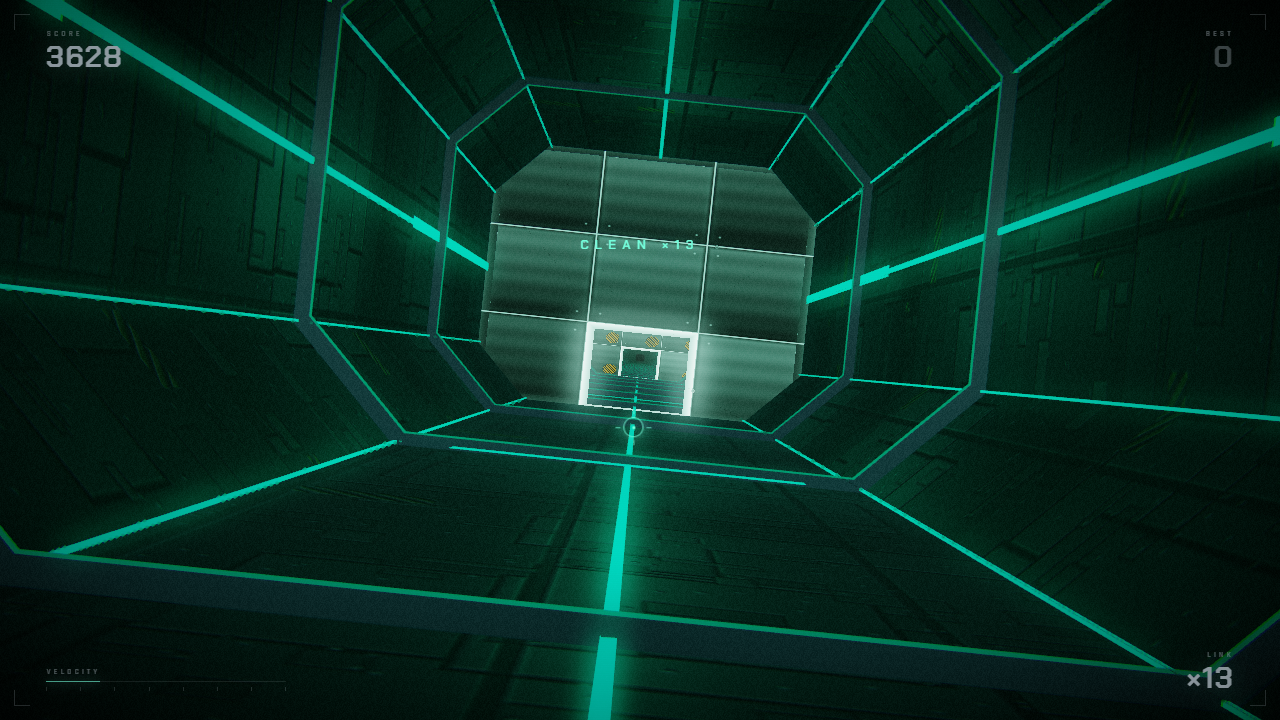
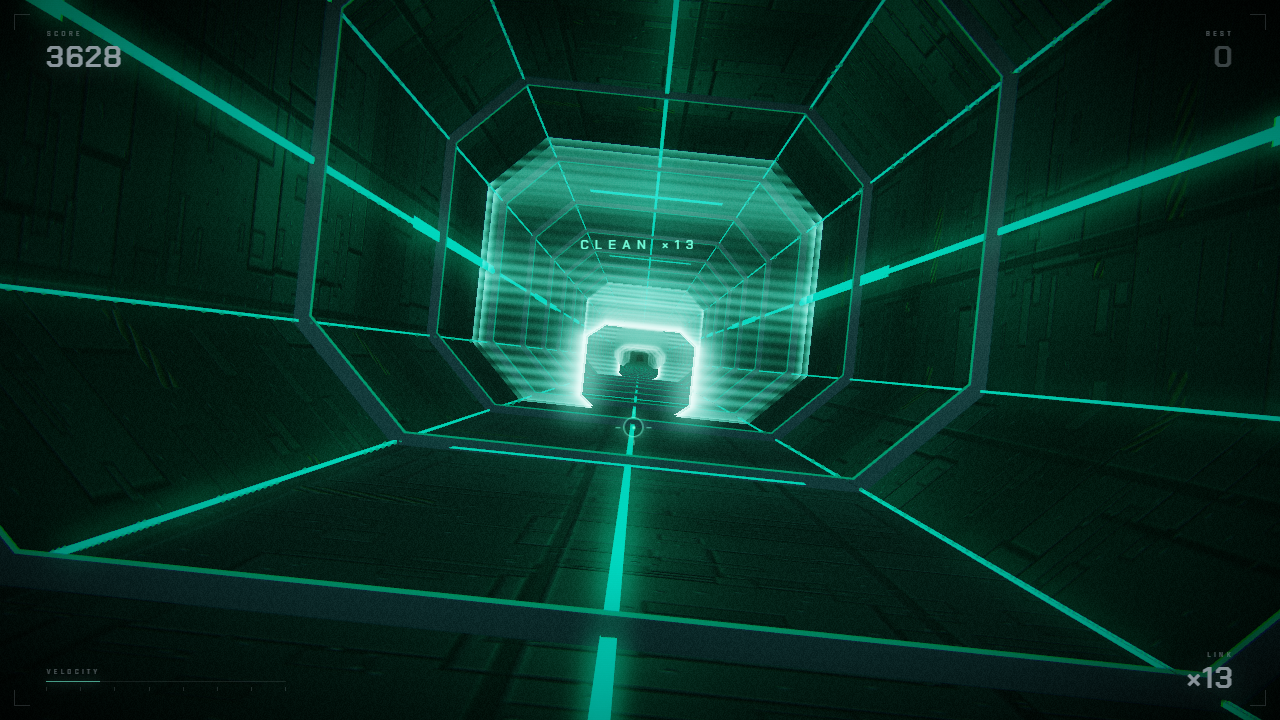
feat(wall): bulkheads become lit glass instead of solid plates
Reference decomposition from HelloRun: translucency, moving scanlines, a thick
cut edge, and several slabs stacking into depth. The opaque 3x3 plate grid had
none of those and blocked the view of what was coming.

- glass is one continuous pane with a chamfered-square aperture; nothing in the
  render reads as a grid any more (judgement still uses the 3x3 index)
- additive blending and no depth write, so you can see the corridor through it
- two planes 0.38 apart share one material, so the apertures parallax against
  each other as you steer: that is where the thickness comes from
- cut edge goes white hot, the pane keeps animated scanlines, the outer frame
  and the aperture rim both read
- widened the aperture to 0.48 of a cell

Changed region(s): [[0.3438, 0.1833, 0.6562, 0.6111]]

diff --git a/js/gates.js b/js/gates.js
@@ -2,19 +2,23 @@ import * as THREE from 'three';
 import { TUNNEL } from './tunnel.js';
 
 /* ------------------------------------------------------------------ *
- *  A wall is a 3x3 assembly of bolted plates spanning the corridor.
- *  The centre plate never opens; exactly one of the eight ring cells is
- *  missing, and that gap is the only way through.
+ *  A bulkhead is a slab of lit glass across the corridor with exactly
+ *  one aperture punched through it.
  *
- *  cell index = row * 3 + col        row 0 = bottom, col 0 = left
- *        6 7 8
- *        3 4 5     4 = centre (always solid)
- *        0 1 2
+ *  Judgement is still a 3x3 grid (row * 3 + col, centre never opens),
+ *  but nothing in the render says "grid": the glass is one continuous
+ *  pane and only the aperture has structure around it.
+ *
+ *  The slab is drawn twice — once at z, once 0.38 closer — so the two
+ *  apertures parallax against each other as you steer. That is where
+ *  the sense of thickness comes from.
  * ------------------------------------------------------------------ */
 export const WALL = {
   w: TUNNEL.a * 2 + 0.20,
   h: TUNNEL.b * 2 + 0.20,
 };
+
+export const THICKNESS = 0.38;
 
 const RING = [0, 1, 2, 3, 5, 6, 7, 8];
 
@@ -24,7 +28,6 @@ export function cellCentre(idx) {
   return [(col - 1) * (WALL.w / 3), (row - 1) * (WALL.h / 3)];
 }
 
-/** which cell a continuous world position falls into; -1 if outside the wall */
 export function cellOf(x, y, grace = 1.0) {
   const hw = (WALL.w / 6) * grace;
   const hh = (WALL.h / 6) * grace;
@@ -38,9 +41,6 @@ export function cellOf(x, y, grace = 1.0) {
   return idx;
 }
 
-/* ------------------------------------------------------------------ *
- *  Shader — one pass, three plate styles
- * ------------------------------------------------------------------ */
 const VERT = /* glsl */`
 varying vec2 vUv;
 varying float vDepth;
@@ -57,173 +57,158 @@ precision highp float;
 varying vec2 vUv;
 varying float vDepth;
 
-uniform float uOpen;
-uniform float uStyle;
+uniform vec2  uHole;      // aperture centre, in cell units (0..3)
 uniform vec3  uColor;
 uniform vec3  uFogColor;
 uniform float uFogDensity;
 uniform float uTime;
 uniform float uHit;
-uniform vec3  uHull;     // corridor half-width, half-height, chamfer
+uniform float uFade;
+uniform vec3  uHull;      // corridor half width / half height / chamfer
 uniform vec2  uSize;
-uniform vec2  uOpenUV;
 
-float hash(vec2 p){
-  return fract(sin(dot(p, vec2(127.1, 311.7))) * 43758.5453);
+/* chamfered-square distance, cell units. negative inside the aperture. */
+float aperture(vec2 q){
+  const float R  = 0.480;   // half aperture
+  const float CH = 0.150;   // corner chamfer
+  vec2 a = abs(q);
+  return max(max(a.x, a.y) - R, (a.x + a.y) - (2.0 * R - CH));
 }
 
 void main(){
-  // plates vanish at the lens so you never end up inside one
-  if (vDepth < 5.0) discard;
+  if (vDepth < 4.0) discard;
 
-  // clip to the corridor's octagonal section so the bulkhead fits the hull
+  // clip to the corridor's octagonal section
   vec2 lp = (vUv - 0.5) * uSize;
   if (abs(lp.x) > uHull.x || abs(lp.y) > uHull.y) discard;
   if (abs(lp.x) + abs(lp.y) > uHull.x + uHull.y - uHull.z) discard;
 
   vec2 g = vUv * 3.0;
-  vec2 c = floor(g);
-  vec2 f = fract(g);
-  int idx = int(c.y) * 3 + int(c.x);
 
-  vec2 e2 = min(f, 1.0 - f);
-  float edge = min(e2.x, e2.y);
+  // ---- aperture ----------------------------------------------------
+  float sd = aperture(g - uHole);
+  if (sd < 0.0) discard;
 
-  // distance to the wall's outer boundary, in cell units
+  // ---- moving scanlines --------------------------------------------
+  float scan  = 0.5 + 0.5 * sin(vUv.y * 150.0 - uTime * 9.0);
+  float scan2 = 0.5 + 0.5 * sin(vUv.y * 17.0 + uTime * 1.3);
+  float grain = fract(sin(dot(floor(vUv * 220.0), vec2(12.9898, 78.233))) * 43758.5453);
+
+  // ---- structure ---------------------------------------------------
+  float rim   = exp(-sd * 15.0);                 // cut edge, very bright
+  float inner = exp(-sd * 3.2);                  // soft halo inside the glass
+  float bevel = smoothstep(0.075, 0.0, sd);      // the slab's cut face
+
+  // outer frame of the pane, in cell units from the boundary
   float bd = min(min(g.x, 3.0 - g.x), min(g.y, 3.0 - g.y));
+  float frame = smoothstep(0.12, 0.0, bd) * 0.85 + exp(-bd * 18.0) * 0.7;
 
-  bool isOpen = abs(float(idx) - uOpen) < 0.5;
-  vec3 alloy = uColor;
+  // ---- glass body --------------------------------------------------
+  vec3 glass = uColor * (0.55 + 0.75 * scan);
+  glass *= 0.55 + 0.75 * scan2;
+  glass += vec3(0.04) * grain;
 
-  /* ---------------- the opening ---------------- */
-  if (isOpen) {
-    if (edge > 0.070) discard;
-    float rim = exp(-edge * 24.0);
-    vec3 glow = mix(alloy * 2.6, vec3(1.0), rim * 0.6);
-    float a = clamp(smoothstep(0.0, 0.012, edge) * 0.8 + rim * 1.5, 0.0, 1.0);
-    gl_FragColor = vec4(glow * (0.45 + rim * 1.7), a);
-    return;
-  }
+  // vertical falloff so the slab is lit from below
+  glass *= mix(0.55, 1.25, vUv.y);
 
-  /* ---------------- plate face ---------------- */
-  float hatch = 0.5 + 0.5 * sin(f.y * 30.0 + hash(c) * 6.28);
-  vec3 base = alloy * (0.34 + hatch * 0.08);
-  base *= 0.70 + 0.55 * hash(c * 1.7);
-  base *= mix(0.34, 1.50, pow(f.y, 0.85));
+  vec3 col = glass;
 
-  if (uStyle > 0.5 && uStyle < 1.5) {
-    // louvred vent stack
-    float fin = step(0.55, fract(f.y * 15.0 + hash(c) * 0.4));
-    base *= mix(1.0, 0.40, fin);
-  } else if (uStyle > 1.5) {
-    // hazard placard in one shoulder of the plate
-    vec2 hp = f - vec2(0.76, 0.24);
-    if (length(hp) < 0.17) {
-      float stripe = step(0.5, fract((f.x + f.y) * 21.0));
-      base = mix(vec3(0.04), vec3(0.62, 0.40, 0.02), stripe);
-    }
-  }
+  // cut face: brighter toward the aperture mouth, darker deeper in
+  col = mix(col, uColor * 2.2, bevel * 0.75);
 
+  // the rim goes white hot
+  col = mix(col, mix(uColor * 2.6, vec3(1.0), 0.55), clamp(rim, 0.0, 1.0));
 
-  // bevelled lip catching light at the seam
-  float lip = exp(-edge * 55.0);
-  base += alloy * lip * 0.60;
+  // soft inner halo bleeding into the pane
+  col += uColor * inner * 0.55;
 
-  // recessed border so the plate reads as bolted on
-  float border = smoothstep(0.05, 0.0, edge);
-  base *= 1.0 - border * 0.80;
+  // frame edge
+  col += uColor * frame * 1.5;
 
-  // corner bolts
-  vec2 bq = abs(f - 0.5);
-  float bolt = smoothstep(0.017, 0.0, length(bq - vec2(0.395)));
-  base += alloy * bolt * 0.85;
+  // ---- alpha -------------------------------------------------------
+  float a = 0.115 + 0.090 * scan;
+  a *= 0.55 + 0.60 * scan2;
+  a += bevel * 0.22;
+  a += inner * 0.10;
+  a += rim * 0.95;
+  a += frame * 0.52;
+  a += grain * 0.02;
+  a *= uFade;
 
-  /* ---------------- seams + frame ---------------- */
-  float seam = smoothstep(0.012, 0.0, edge);
-  float frameLip = exp(-bd * 26.0);
+  col = mix(col, vec3(1.0, 0.5, 0.5), uHit * 0.8);
 
-  vec3 col = base;
-  col += alloy * 1.9 * seam;
-  col += alloy * frameLip * 0.85;
-
-  // structural frame band around the whole bulkhead
-  if (bd < 0.11) {
-    vec3 band = alloy * (0.24 + 0.60 * exp(-bd * 22.0));
-    band *= 0.80 + 0.35 * hash(c);
-    col = band + alloy * 1.9 * seam;
-  }
-
-  // light spilling out of the gap onto the surrounding plates
-  float spill = exp(-distance(vUv, uOpenUV) * 9.0);
-  col += alloy * spill * 0.34;
-
-  // slow scan travelling down the wall
-  col += alloy * (0.5 + 0.5 * sin(vUv.y * 8.0 - uTime * 3.0)) * 0.02;
-
-  col = mix(col, vec3(1.0, 0.55, 0.55), uHit * 0.9);
-
-  /* ---------------- fog ---------------- */
   float fogF = 1.0 - exp(-pow(vDepth * uFogDensity, 2.0));
-  col = mix(col, uFogColor, clamp(fogF, 0.0, 1.0));
-  col *= 0.78 + 0.22 * smoothstep(5.0, 26.0, vDepth);
+  a *= 1.0 - fogF * 0.85;
 
-  gl_FragColor = vec4(col, 1.0);
+  gl_FragColor = vec4(col, clamp(a, 0.0, 1.0));
 }
 `;
 
 const GEO = new THREE.PlaneGeometry(WALL.w, WALL.h);
 
 /* ------------------------------------------------------------------ *
- *  One wall
+ *  One bulkhead
  * ------------------------------------------------------------------ */
 export class Gate {
   constructor(rng, time) {
     this.open = RING[Math.floor(rng() * RING.length) % RING.length];
     this.style = Math.floor(rng() * 3);
-    this.openUV = new THREE.Vector2(((this.open % 3) + 0.5) / 3, (Math.floor(this.open / 3) + 0.5) / 3);
     this.dBeats = 0;
     this.d = 0;
     this.spawnT = time;
     this.passed = false;
     this.hit = 0;
 
+    const col = this.open % 3;
+    const row = Math.floor(this.open / 3);
+
     this.mat = new THREE.ShaderMaterial({
       vertexShader: VERT,
       fragmentShader: FRAG,
       uniforms: {
-        uOpen: { value: this.open },
-        uStyle: { value: this.style },
+        uHole: { value: new THREE.Vector2(col + 0.5, row + 0.5) },
         uColor: { value: new THREE.Color(0xffffff) },
         uFogColor: { value: new THREE.Color(0x000000) },
         uFogDensity: { value: 0.0118 },
         uTime: { value: 0 },
         uHit: { value: 0 },
+        uFade: { value: 1 },
         uHull: { value: new THREE.Vector3(TUNNEL.a, TUNNEL.b, TUNNEL.ch) },
         uSize: { value: new THREE.Vector2(WALL.w, WALL.h) },
-        uOpenUV: { value: new THREE.Vector2() },
       },
       transparent: true,
-      depthWrite: true,
+      blending: THREE.AdditiveBlending,
+      depthWrite: false,
       depthTest: true,
       side: THREE.DoubleSide,
       toneMapped: false,
     });
 
-    this.mesh = new THREE.Mesh(GEO, this.mat);
-    this.mesh.frustumCulled = false;
-    this.mesh.renderOrder = 5;
+    this.meshes = [];
+    for (let i = 0; i < 2; i++) {
+      const m = new THREE.Mesh(GEO, this.mat);
+      m.frustumCulled = false;
+      m.renderOrder = 6;
+      m.userData.offset = i * THICKNESS;
+      this.meshes.push(m);
+    }
   }
 
   centre() {
     return cellCentre(this.open);
   }
 
+  place(d) {
+    this.d = d;
+    for (const m of this.meshes) m.position.z = -d + m.userData.offset;
+  }
+
   update(time, hue) {
     const u = this.mat.uniforms;
     u.uTime.value = time;
     u.uHit.value = this.hit * 0.8;
-    u.uOpenUV.value.copy(this.openUV);
-    u.uColor.value.setHSL((hue + 1) % 1, 0.42, 0.56);
+    u.uColor.value.setHSL((hue + 1) % 1, 0.72, 0.55);
+    u.uFade.value = THREE.MathUtils.clamp((this.d - 3.0) / 9.0, 0, 1);
   }
 
   dispose() {
@@ -248,7 +233,7 @@ export class Gates {
 
   clear() {
     for (const g of this.list) {
-      this.scene.remove(g.mesh);
+      for (const m of g.meshes) this.scene.remove(m);
       g.dispose();
     }
     this.list.length = 0;
@@ -257,9 +242,8 @@ export class Gates {
   spawn(dBeats, speed, secPerBeat, time) {
     const g = new Gate(() => this.rng(), time);
     g.dBeats = dBeats;
-    g.d = speed * dBeats * secPerBeat;
-    g.mesh.position.z = -g.d;
-    this.scene.add(g.mesh);
+    g.place(speed * dBeats * secPerBeat);
+    for (const m of g.meshes) this.scene.add(m);
     this.list.push(g);
     return g;
   }
@@ -268,11 +252,10 @@ export class Gates {
     for (let i = this.list.length - 1; i >= 0; i--) {
       const g = this.list[i];
       g.dBeats -= dBeat;
-      g.d = Math.max(-2, speed * g.dBeats * secPerBeat);
-      g.mesh.position.z = -g.d;
+      g.place(Math.max(-2, speed * g.dBeats * secPerBeat));
       g.update(time, hue);
       if (g.dBeats < -0.35) {
-        this.scene.remove(g.mesh);
+        for (const m of g.meshes) this.scene.remove(m);
         g.dispose();
         this.list.splice(i, 1);
       }

diff --git a/js/main.js b/js/main.js
@@ -108,7 +108,7 @@ function setWireframe(on) {
   renderer.setClearColor(on ? 0xffffff : 0x000000, 1);
   document.body.classList.toggle('wires', on);
   tunnel.setWireframe(on);
-  for (const g of gates.list) g.mesh.visible = !on;
+  for (const g of gates.list) for (const mm of g.meshes) mm.visible = !on;
   if (on) tunnel.setHue(0.55, 0.0, 0.5);
 }
 setWireframe(true);
